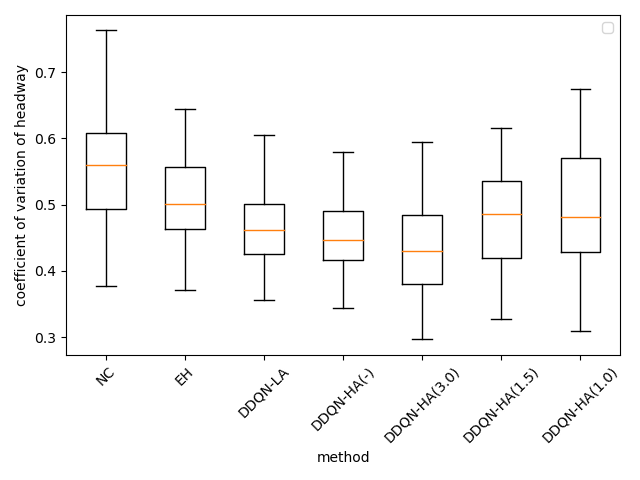
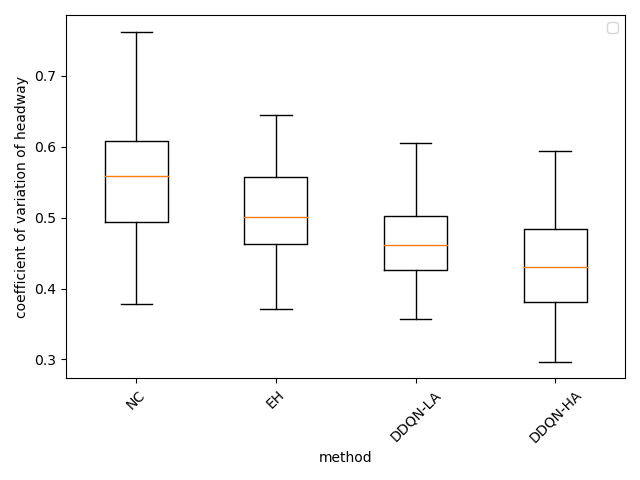
new training

diff --git a/src/04_SIMULATION/main_sim.py b/src/04_SIMULATION/main_sim.py
@@ -113,44 +113,47 @@ def run_sample_rl(episodes=1, simple_reward=False):
 # run_base_detailed(replications=40, save=True)
 # run_base_control_detailed(replications=40, save=True)
 
-# path_tr_nc = 'out/NC/trajectories_set_0222-211726.pkl'
-# path_p_nc = 'out/NC/pax_set_0222-211726.pkl'
-# path_tr_eh = 'out/EH/trajectories_set_0222-234859.pkl'
-# path_p_eh = 'out/EH/pax_set_0222-234859.pkl'
-# path_tr_eh2 = 'out/EH/trajectories_set_0222-212202.pkl' # EH(0.7)
-# path_p_eh2 = 'out/EH/pax_set_0222-212202.pkl' # EH (0.7)
-# path_tr_rl0 = 'out/DDQN-LA/trajectory_set_0224-124312.pkl' # 0224-1234
-# path_p_rl0 = 'out/DDQN-LA/pax_set_0224-124312.pkl' # 0224-1234
-# path_tr_rl1 = 'out/DDQN-HA/trajectory_set_0222-233419.pkl' # 0222-2247
-# path_p_rl1 = 'out/DDQN-HA/pax_set_0222-233419.pkl'
-# path_tr_rl2 = 'out/DDQN-HA/trajectory_set_0223-183027.pkl' # 0223-1249
-# path_p_rl2 = 'out/DDQN-HA/pax_set_0223-183027.pkl'
-# path_tr_rl3 = 'out/DDQN-HA/trajectory_set_0222-233609.pkl' # 0222-2315
-# path_p_rl3 = 'out/DDQN-HA/pax_set_0222-233609.pkl'
-# path_tr_rl4 = 'out/DDQN-HA/trajectory_set_0223-220817.pkl' # 0223-2159
-# path_p_rl4 = 'out/DDQN-HA/pax_set_0223-220817.pkl'
+path_tr_nc = 'out/NC/trajectories_set_0222-211726.pkl'
+path_p_nc = 'out/NC/pax_set_0222-211726.pkl'
+path_tr_eh = 'out/EH/trajectories_set_0222-234859.pkl'
+path_p_eh = 'out/EH/pax_set_0222-234859.pkl'
+path_tr_eh2 = 'out/EH/trajectories_set_0222-212202.pkl' # EH(0.7)
+path_p_eh2 = 'out/EH/pax_set_0222-212202.pkl' # EH (0.7)
+path_tr_rl0 = 'out/DDQN-LA/trajectory_set_0224-124312.pkl' # 0224-1234
+path_p_rl0 = 'out/DDQN-LA/pax_set_0224-124312.pkl' # 0224-1234
+path_tr_rl1 = 'out/DDQN-HA/trajectory_set_0222-233419.pkl' # 0222-2247
+path_p_rl1 = 'out/DDQN-HA/pax_set_0222-233419.pkl'
+path_tr_rl2 = 'out/DDQN-HA/trajectory_set_0223-183027.pkl' # 0223-1249
+path_p_rl2 = 'out/DDQN-HA/pax_set_0223-183027.pkl'
+path_tr_rl3 = 'out/DDQN-HA/trajectory_set_0222-233609.pkl' # 0222-2315
+path_p_rl3 = 'out/DDQN-HA/pax_set_0222-233609.pkl'
+path_tr_rl4 = 'out/DDQN-HA/trajectory_set_0223-220817.pkl' # 0223-2159
+path_p_rl4 = 'out/DDQN-HA/pax_set_0223-220817.pkl'
 # tags = ['NC', 'EH', 'DDQN-LA', 'DDQN-HA(-)', 'DDQN-HA(3.0)', 'DDQN-HA(1.5)', 'DDQN-HA(1.0)']
 # prc = PostProcessor([path_tr_nc, path_tr_eh, path_tr_rl0, path_tr_rl1, path_tr_rl2, path_tr_rl3, path_tr_rl4],
 #                     [path_p_nc, path_p_eh, path_p_rl0, path_p_rl1, path_p_rl2, path_p_rl3, path_p_rl4], tags)
-# path_dir='out/compare/benchmark/'
-# results = {}
-# results.update(prc.pax_times_fast())
-# results.update(prc.headway())
-# results_df = pd.DataFrame(results, columns=list(results.keys()))
-# results_df.to_csv('out/compare/benchmark/numer_results.csv', index=False)
-# rbt_od_set = post_process.load('out/compare/benchmark/rbt_od_benchmark.pkl')
-# for i in range(len(rbt_od_set)):
-#     rbt_od_set[i] = [rbt/60 for rbt in rbt_od_set[i]]
-# plt.boxplot(rbt_od_set, labels=tags, sym='')
-# plt.xticks(rotation=45)
-# plt.xlabel('method')
-# plt.ylabel('reliability buffer time (min)')
-# plt.legend()
-# plt.tight_layout()
-# plt.savefig(path_dir + 'rbt.png')
-# plt.close()
+tags = ['NC', 'EH', 'DDQN-LA', 'DDQN-HA']
+prc = PostProcessor([path_tr_nc, path_tr_eh, path_tr_rl0, path_tr_rl2],
+                    [path_p_nc, path_p_eh, path_p_rl0, path_p_rl2], tags)
+path_dir = 'out/compare/benchmark/'
+results = {}
+results.update(prc.pax_times_fast())
+results.update(prc.headway())
+results_df = pd.DataFrame(results, columns=list(results.keys()))
+results_df.to_csv('out/compare/benchmark/numer_results.csv', index=False)
+rbt_od_set = post_process.load('out/compare/benchmark/rbt_od_benchmark.pkl')
+rbt_od_set = [rbt_od_set[0]] + [rbt_od_set[1]] + [rbt_od_set[2]] + [rbt_od_set[4]]
+for i in range(len(rbt_od_set)):
+    rbt_od_set[i] = [rbt/60 for rbt in rbt_od_set[i]]
+plt.boxplot(rbt_od_set, labels=tags, sym='')
+plt.xticks(rotation=45)
+plt.xlabel('method')
+plt.ylabel('reliability buffer time (min)')
+plt.legend()
+plt.tight_layout()
+plt.savefig(path_dir + 'rbt.png')
+plt.close()
 
-# save(path_dir + 'rbt_numer.pkl', rbt_od_set)
 # prc.write_trajectories()
 # df_nc = pd.read_csv('out/NC/trajectories.csv')
 # error_headway(STOPS, df_nc, 40)

diff --git a/src/04_SIMULATION/scratch.py b/src/04_SIMULATION/scratch.py
@@ -18,8 +18,3 @@ import os
 from agents_sim import Bus
 from input import BLOCK_TRIPS_INFO, BLOCK_DICT
 from copy import deepcopy
-
-a = [[1, 3], [2, 4]]
-for j in range(len(a)):
-    a[j] = [i+1 for i in a[j]]
-print(a)
